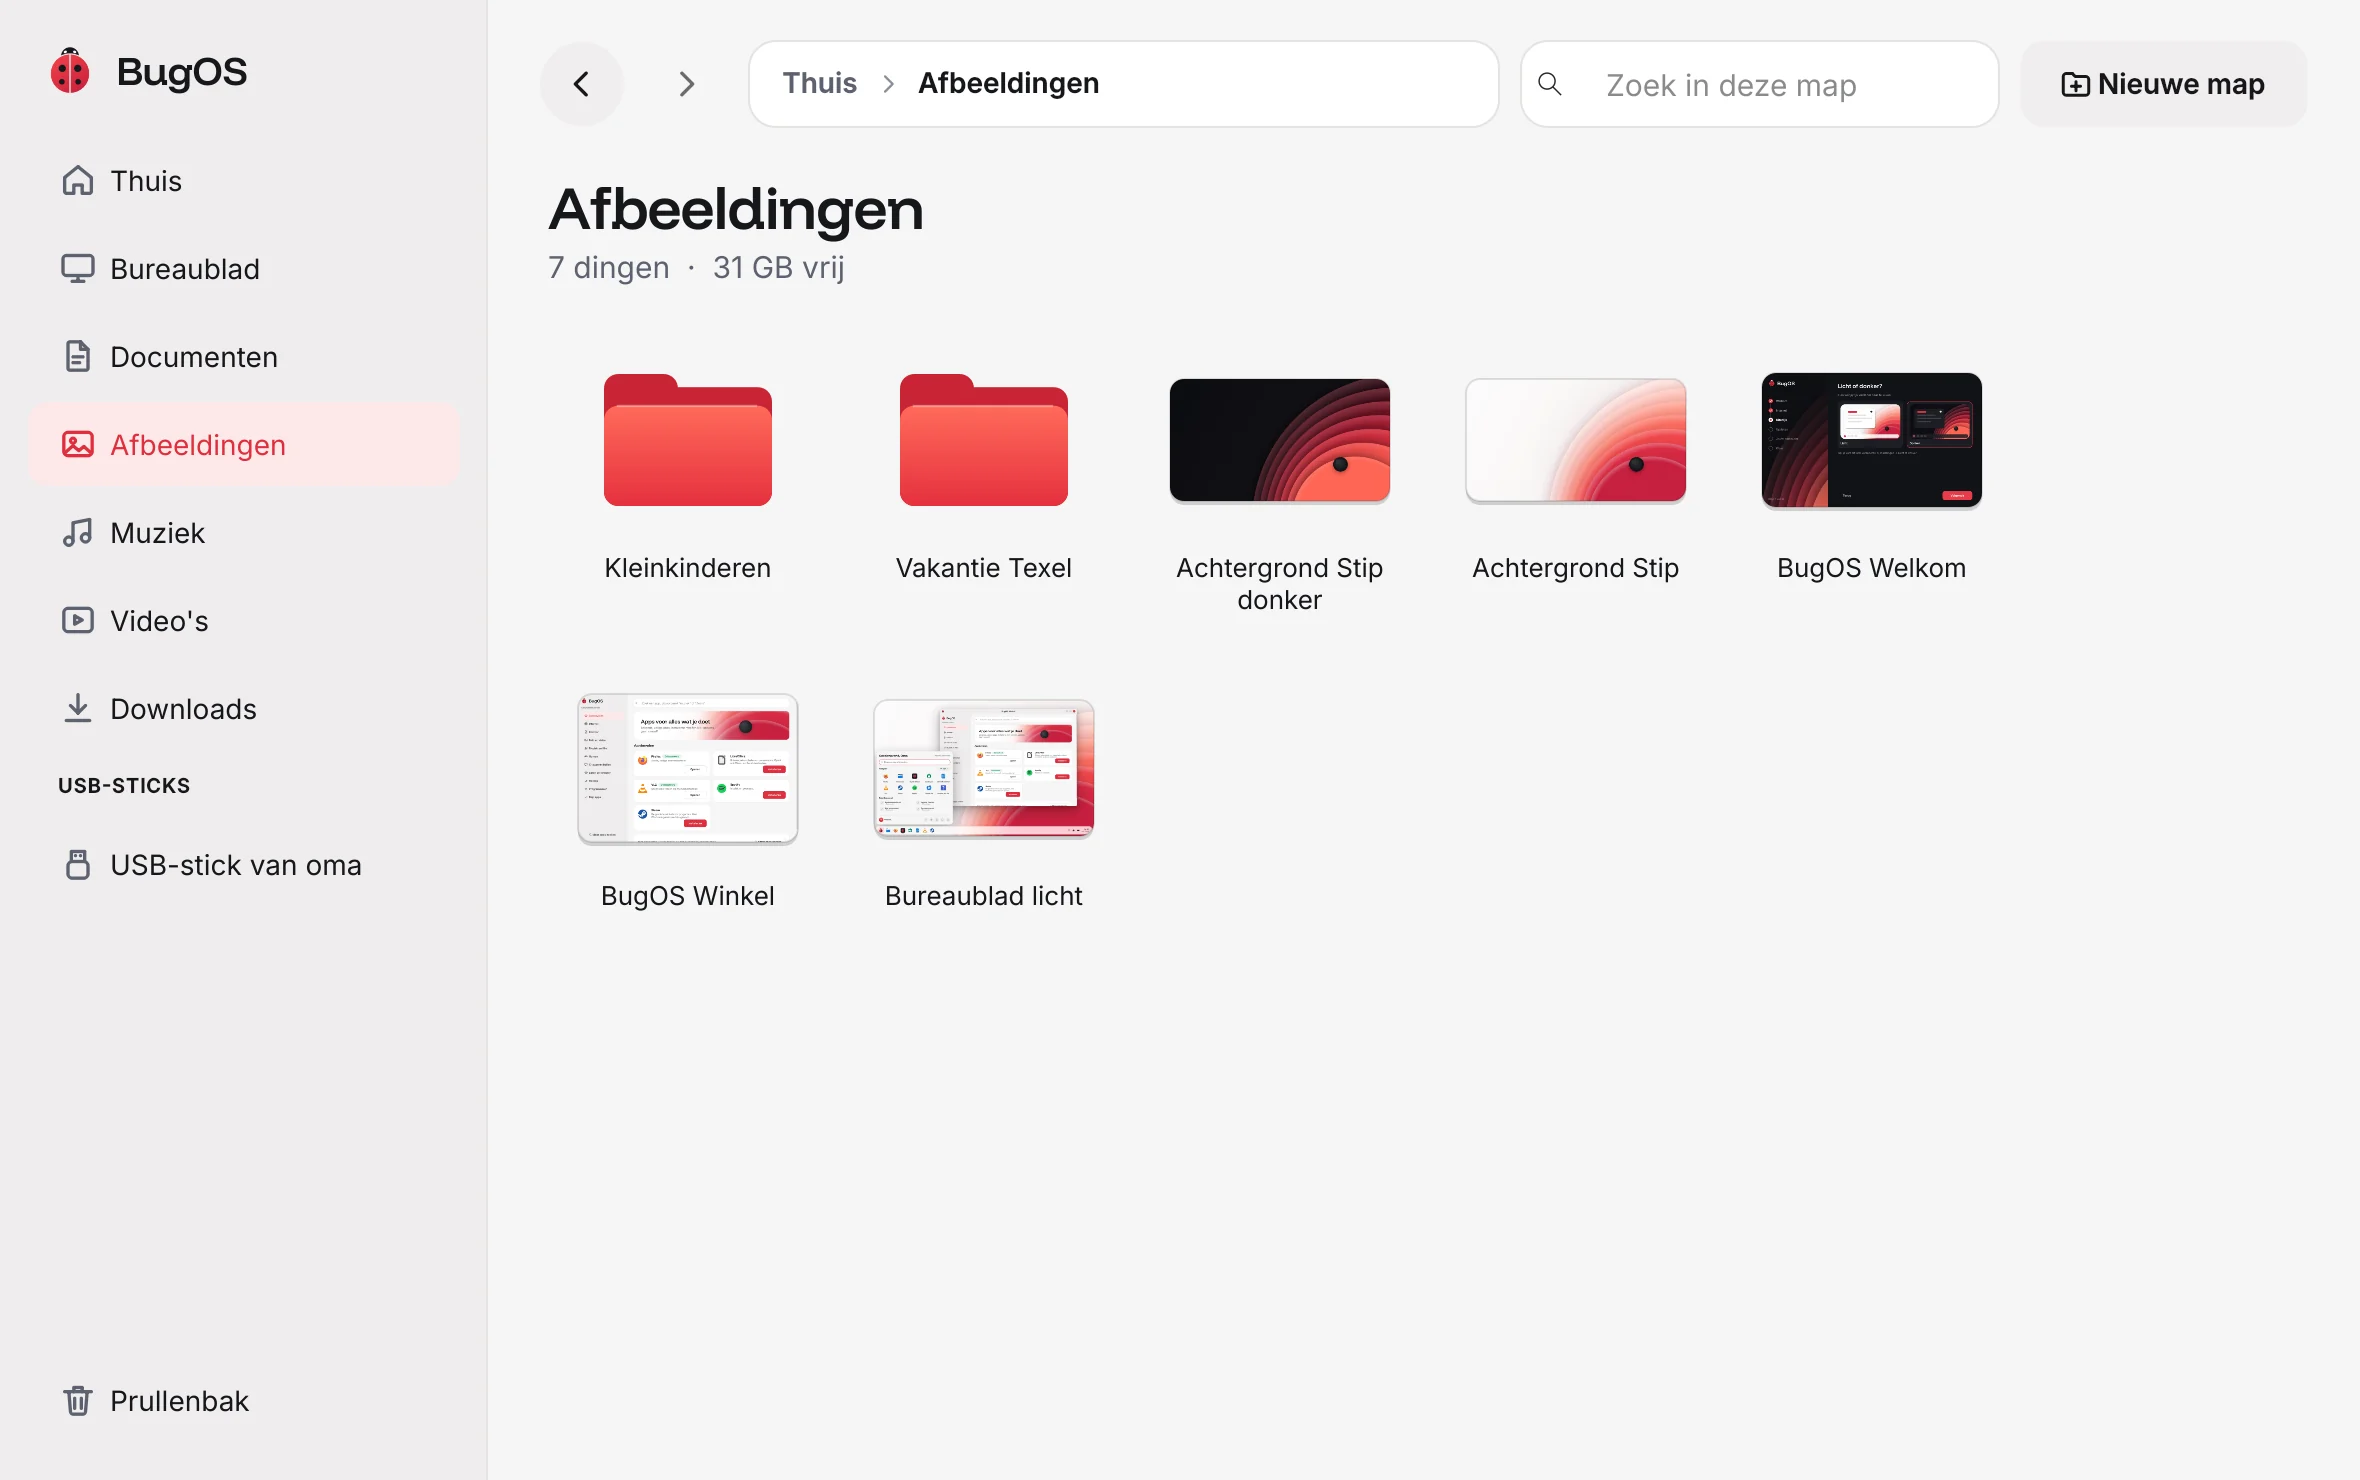
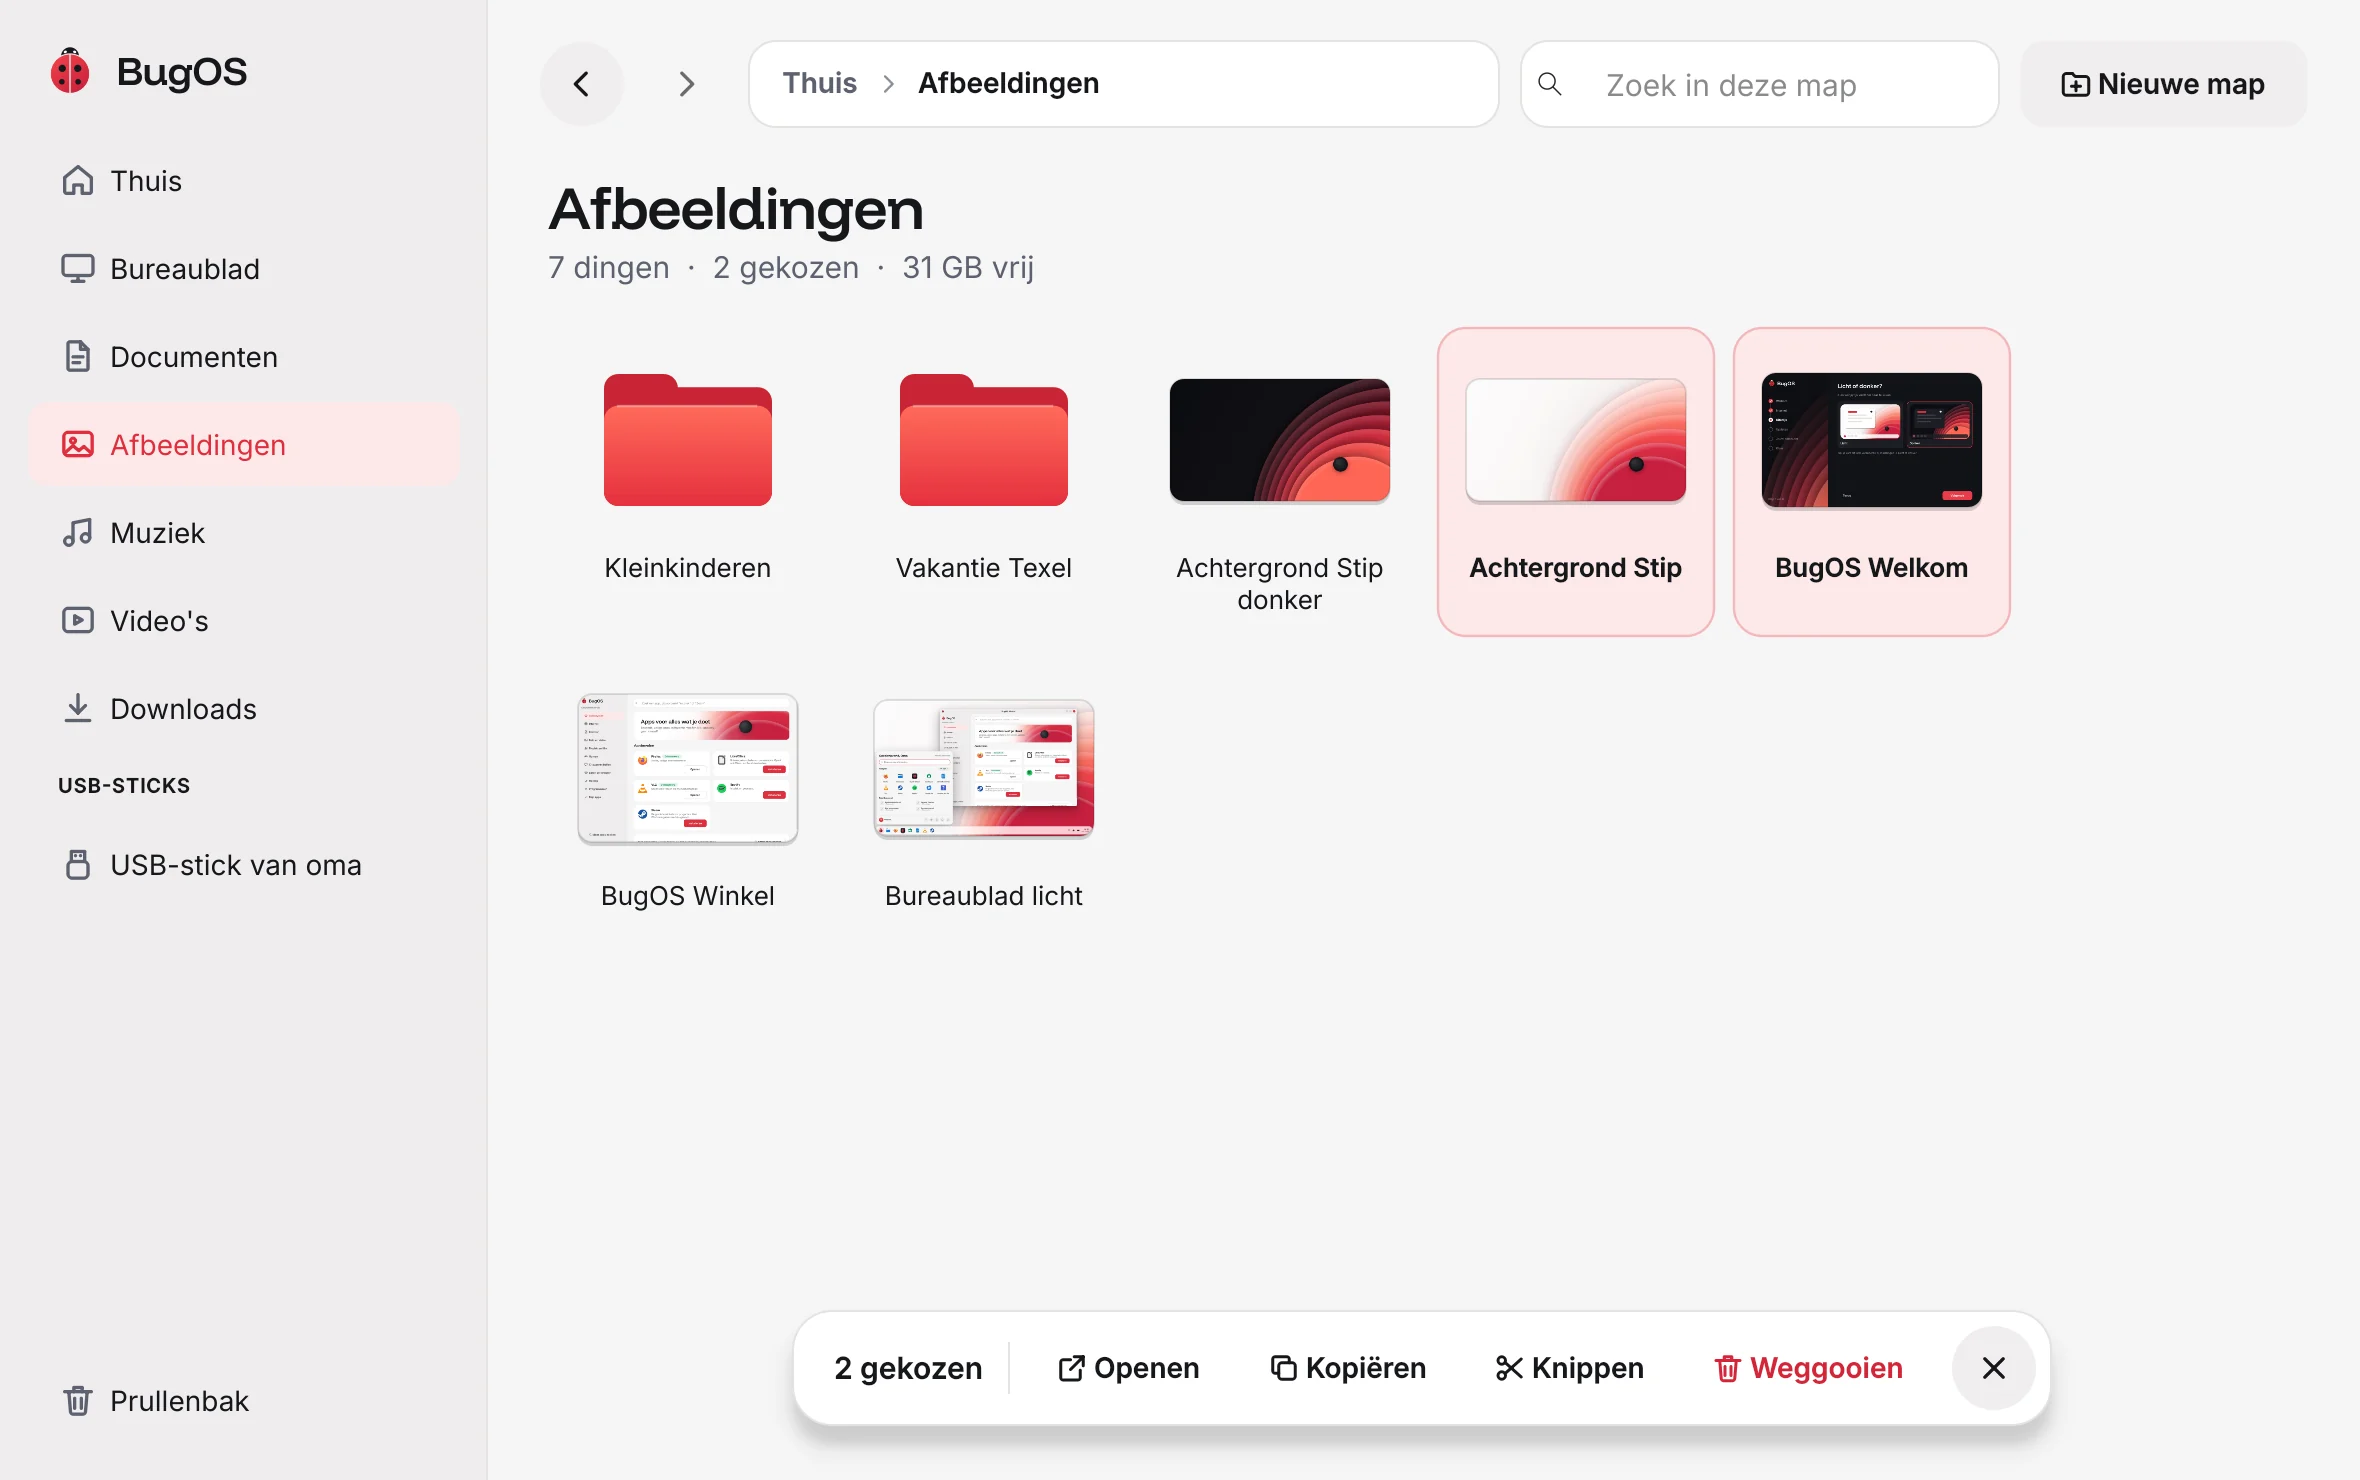
Website: de verkenner met het knoppenbalkje (klik iets aan, en onderin staat wat je kunt doen)
Claude-Session: https://claude.ai/code/session_01LEb8zrvdLmwANU8fjWaC9H

diff --git a/tools/website/pagina.html b/tools/website/pagina.html
@@ -418,7 +418,7 @@ details p { color: var(--tekst2); padding-bottom: 26px; max-width: 46rem; }
       </li>
       <li class="moment">
         <time datetime="11:30">11:30</time>
-        <div><h3>Foto's van de kleinkinderen.</h3><p>In Bestanden staan je foto's, documenten en downloads op een vaste plek, net als in Windows. Je ziet meteen een voorbeeldje van elk bestand. Dubbelklik, en het gaat open.</p><p class="wie">De verkenner</p></div>
+        <div><h3>Foto's van de kleinkinderen.</h3><p>In Bestanden staan je foto's, documenten en downloads op een vaste plek, net als in Windows. Je ziet meteen een voorbeeldje van elk bestand. Klik iets aan, en onderin staat wat je ermee kunt doen.</p><p class="wie">De verkenner</p></div>
         <figure><div class="venster"><img loading="lazy" data-licht="assets/verkenner-licht.webp" data-donker="assets/verkenner-donker.webp" src="assets/verkenner-licht.webp" width="2360" height="1480" alt="Bestanden, de verkenner van BugOS: de map Afbeeldingen met rode mappen en voorbeeldjes van de foto's."></div></figure>
       </li>
       <li class="moment">

diff --git a/website/index.html b/website/index.html
@@ -444,7 +444,7 @@ details p { color: var(--tekst2); padding-bottom: 26px; max-width: 46rem; }
       </li>
       <li class="moment">
         <time datetime="11:30">11:30</time>
-        <div><h3>Foto's van de kleinkinderen.</h3><p>In Bestanden staan je foto's, documenten en downloads op een vaste plek, net als in Windows. Je ziet meteen een voorbeeldje van elk bestand. Dubbelklik, en het gaat open.</p><p class="wie">De verkenner</p></div>
+        <div><h3>Foto's van de kleinkinderen.</h3><p>In Bestanden staan je foto's, documenten en downloads op een vaste plek, net als in Windows. Je ziet meteen een voorbeeldje van elk bestand. Klik iets aan, en onderin staat wat je ermee kunt doen.</p><p class="wie">De verkenner</p></div>
         <figure><div class="venster"><img loading="lazy" data-licht="assets/verkenner-licht.webp" data-donker="assets/verkenner-donker.webp" src="assets/verkenner-licht.webp" width="2360" height="1480" alt="Bestanden, de verkenner van BugOS: de map Afbeeldingen met rode mappen en voorbeeldjes van de foto's."></div></figure>
       </li>
       <li class="moment">
